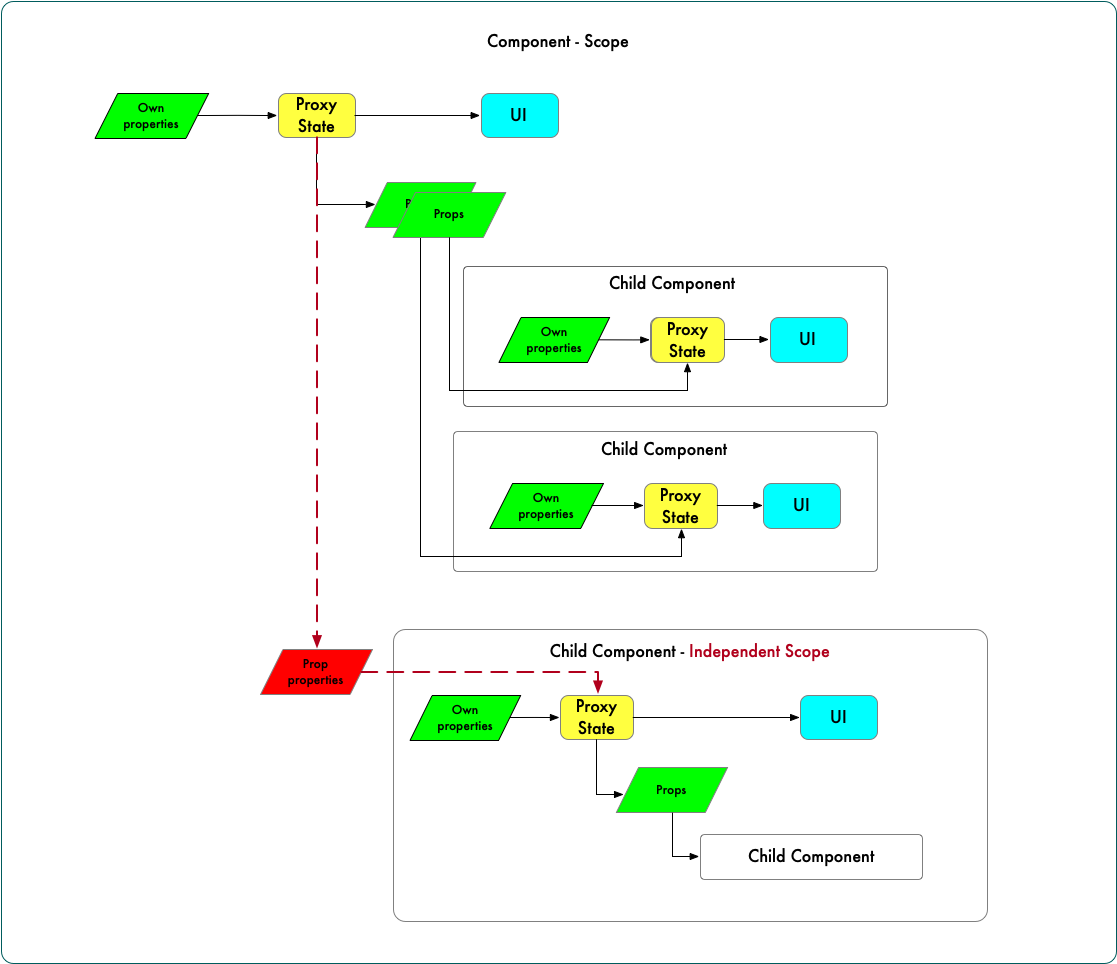
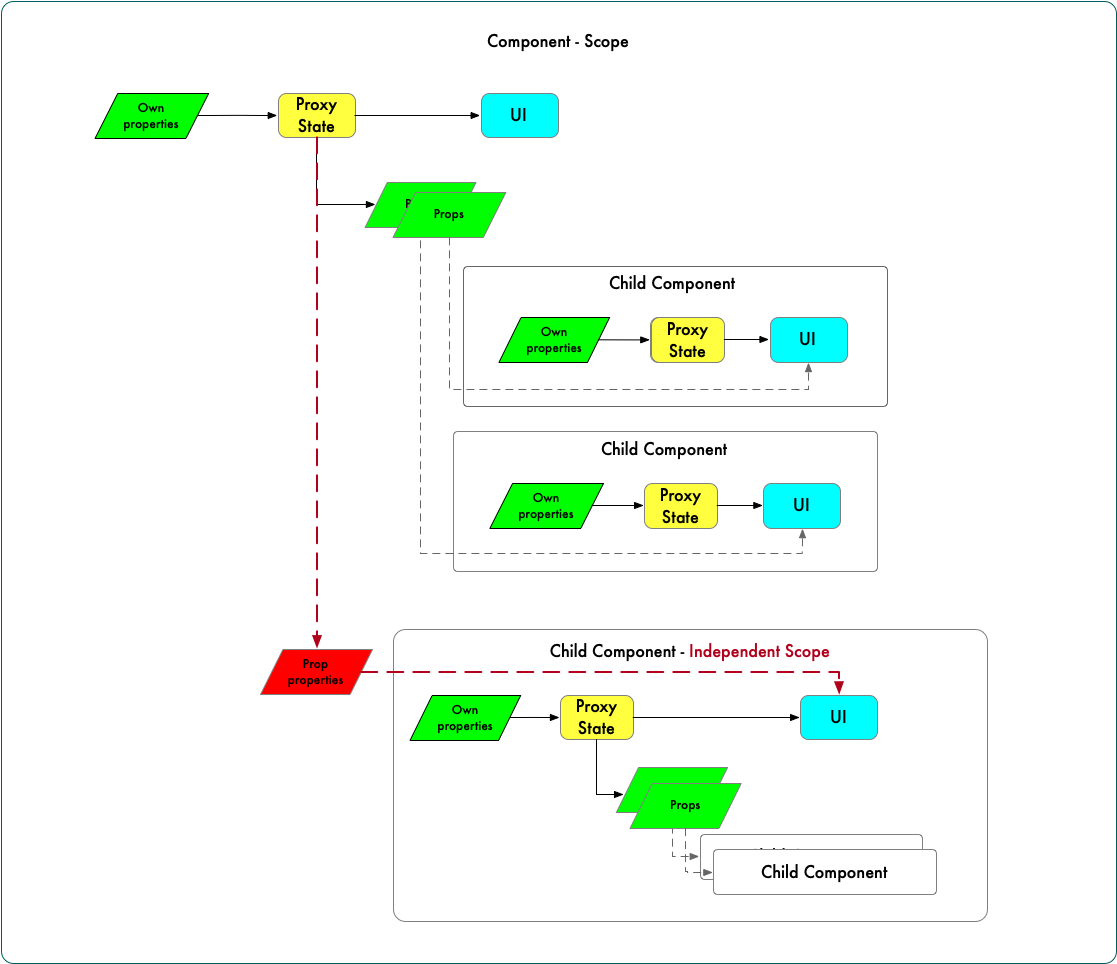
update docs

diff --git a/src/tracker/index.js b/src/tracker/index.js
@@ -67,17 +67,4 @@ const Tracker = ({
   })
 }
 
-const base = {
-  a: {
-    b: 1
-  },
-  c: {
-    d: 2,
-    e: [{f: 1}]
-  },
-  g: {
-    h: {i: 4}
-  }
-}
-
 export default Tracker

diff --git a/src/tracker/README.md b/src/tracker/README.md
@@ -27,8 +27,9 @@ Then it has following design rules:
 
 ### Implementation
 
+The following is an example about how to create an instance, and get its paths value. You can provide a `parent` param to specify the parent node, or the previous tracker will be considered as `parent`. The following image shows the basic logic implementation.
+
 ```js
-import Tracker from "./"
 const base = {
   a: {
     b: 1
@@ -44,15 +45,32 @@ const base = {
 
 const baseNode = Tracker({base: base.a})
 const b = baseNode.proxy.b
+baseNode.proxy.runFn("getRemarkableFullPaths") // [[ 'b' ]]
 
 const childNode = Tracker({base: base.c})
 const c = childNode.proxy.d
 const f = childNode.proxy.e[0].f
 const item = childNode.proxy.e[0]
+childNode.proxy.runFn("getRemarkableFullPaths") // [["e", "0"], ["e", "0", "f"], ['d']]
 
 const grandChildNode = Tracker({base: base.g})
 const i = grandChildNode.proxy.h.i
 const ff = item.f
+grandChildNode.proxy.runFn("getRemarkableFullPaths") // [["h", "i"], ["e", "0", "f"]]
 ```
 
 ![tree.png](./docs/tree.png)
+
+### What is relink
+
+The following two image provide a straightforward explanation of why relink needs and how it works. The first one describe a general scenario when write react component: A parent component pass a item (props property) to each of its child component.
+
+_note: for props property, please refer to definition listed on above_
+
+![component_1.png](./docs/component_1.png)
+
+Now one item's value update... So how to make a fine-grained rendering update...The answer could be `only trigger the updated value related component`.But there will come with a new issue, `{ count: 1 }` is a prop value passing from parent...If the parent component not re-render, how could I get the latest value..It's exactly the problem what `relink` attempt to resolve.
+
+`break the old connection, then re-build a new link with child component`
+
+![component_2.png](./docs/component_2.png)
